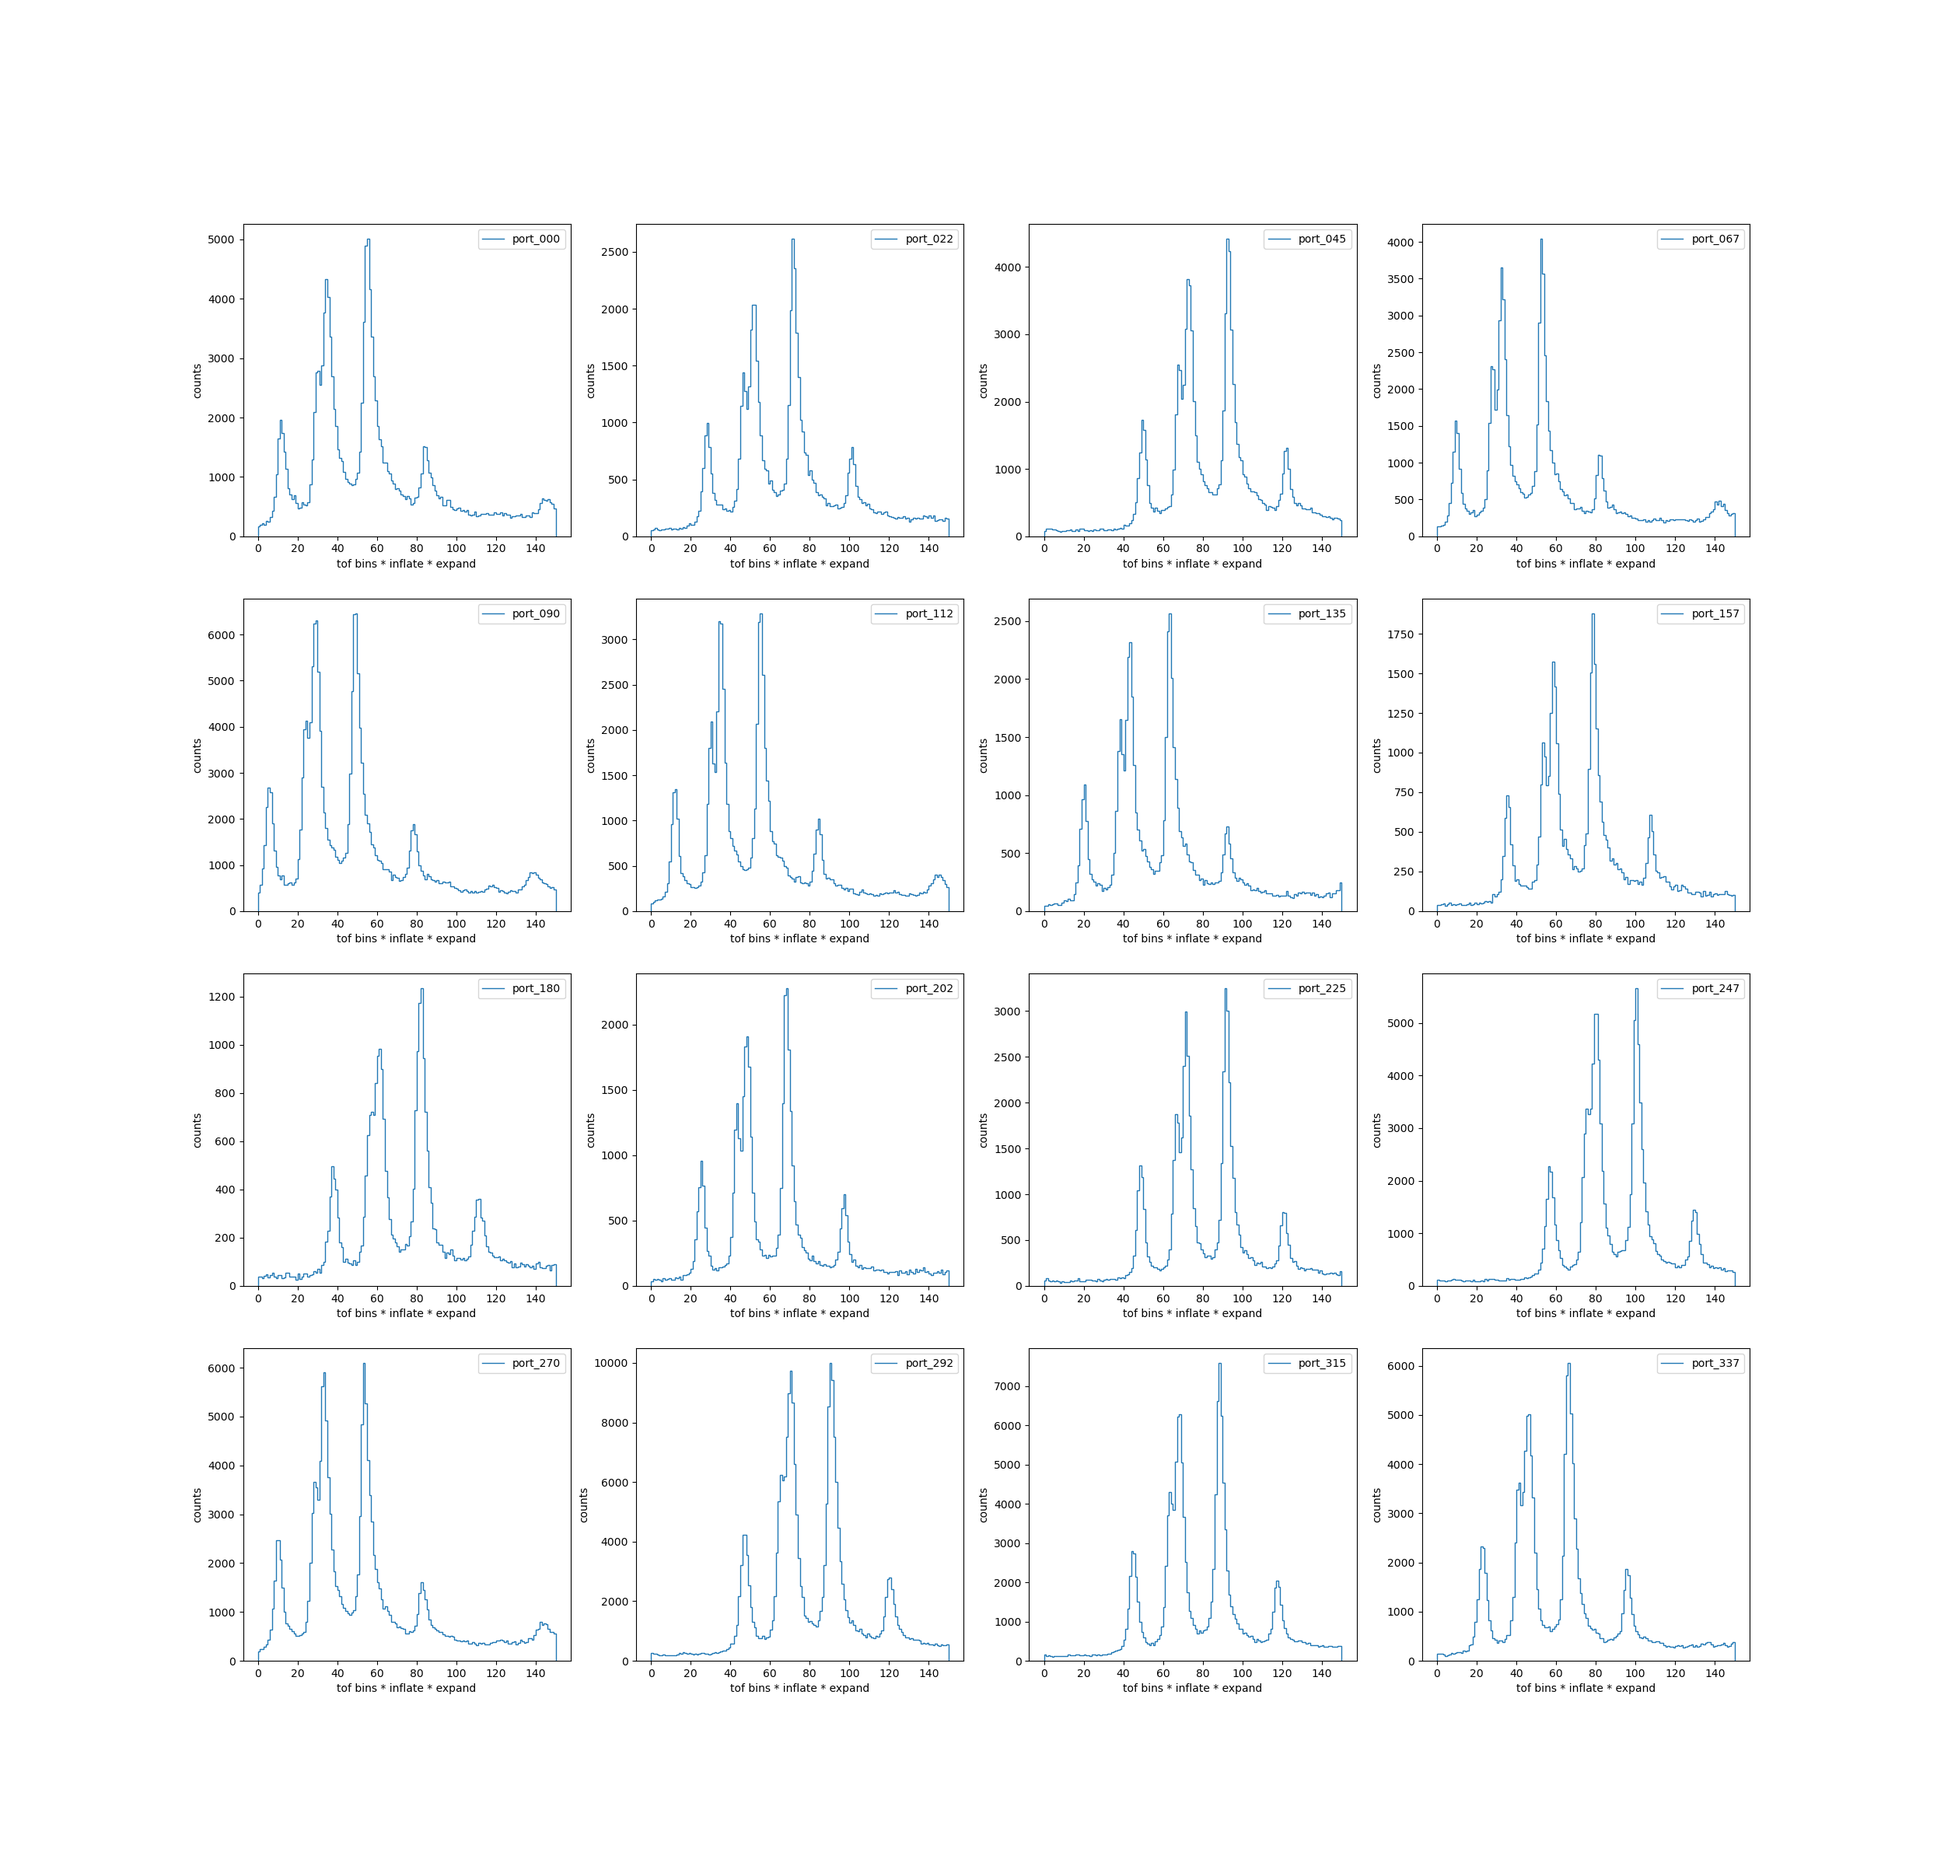
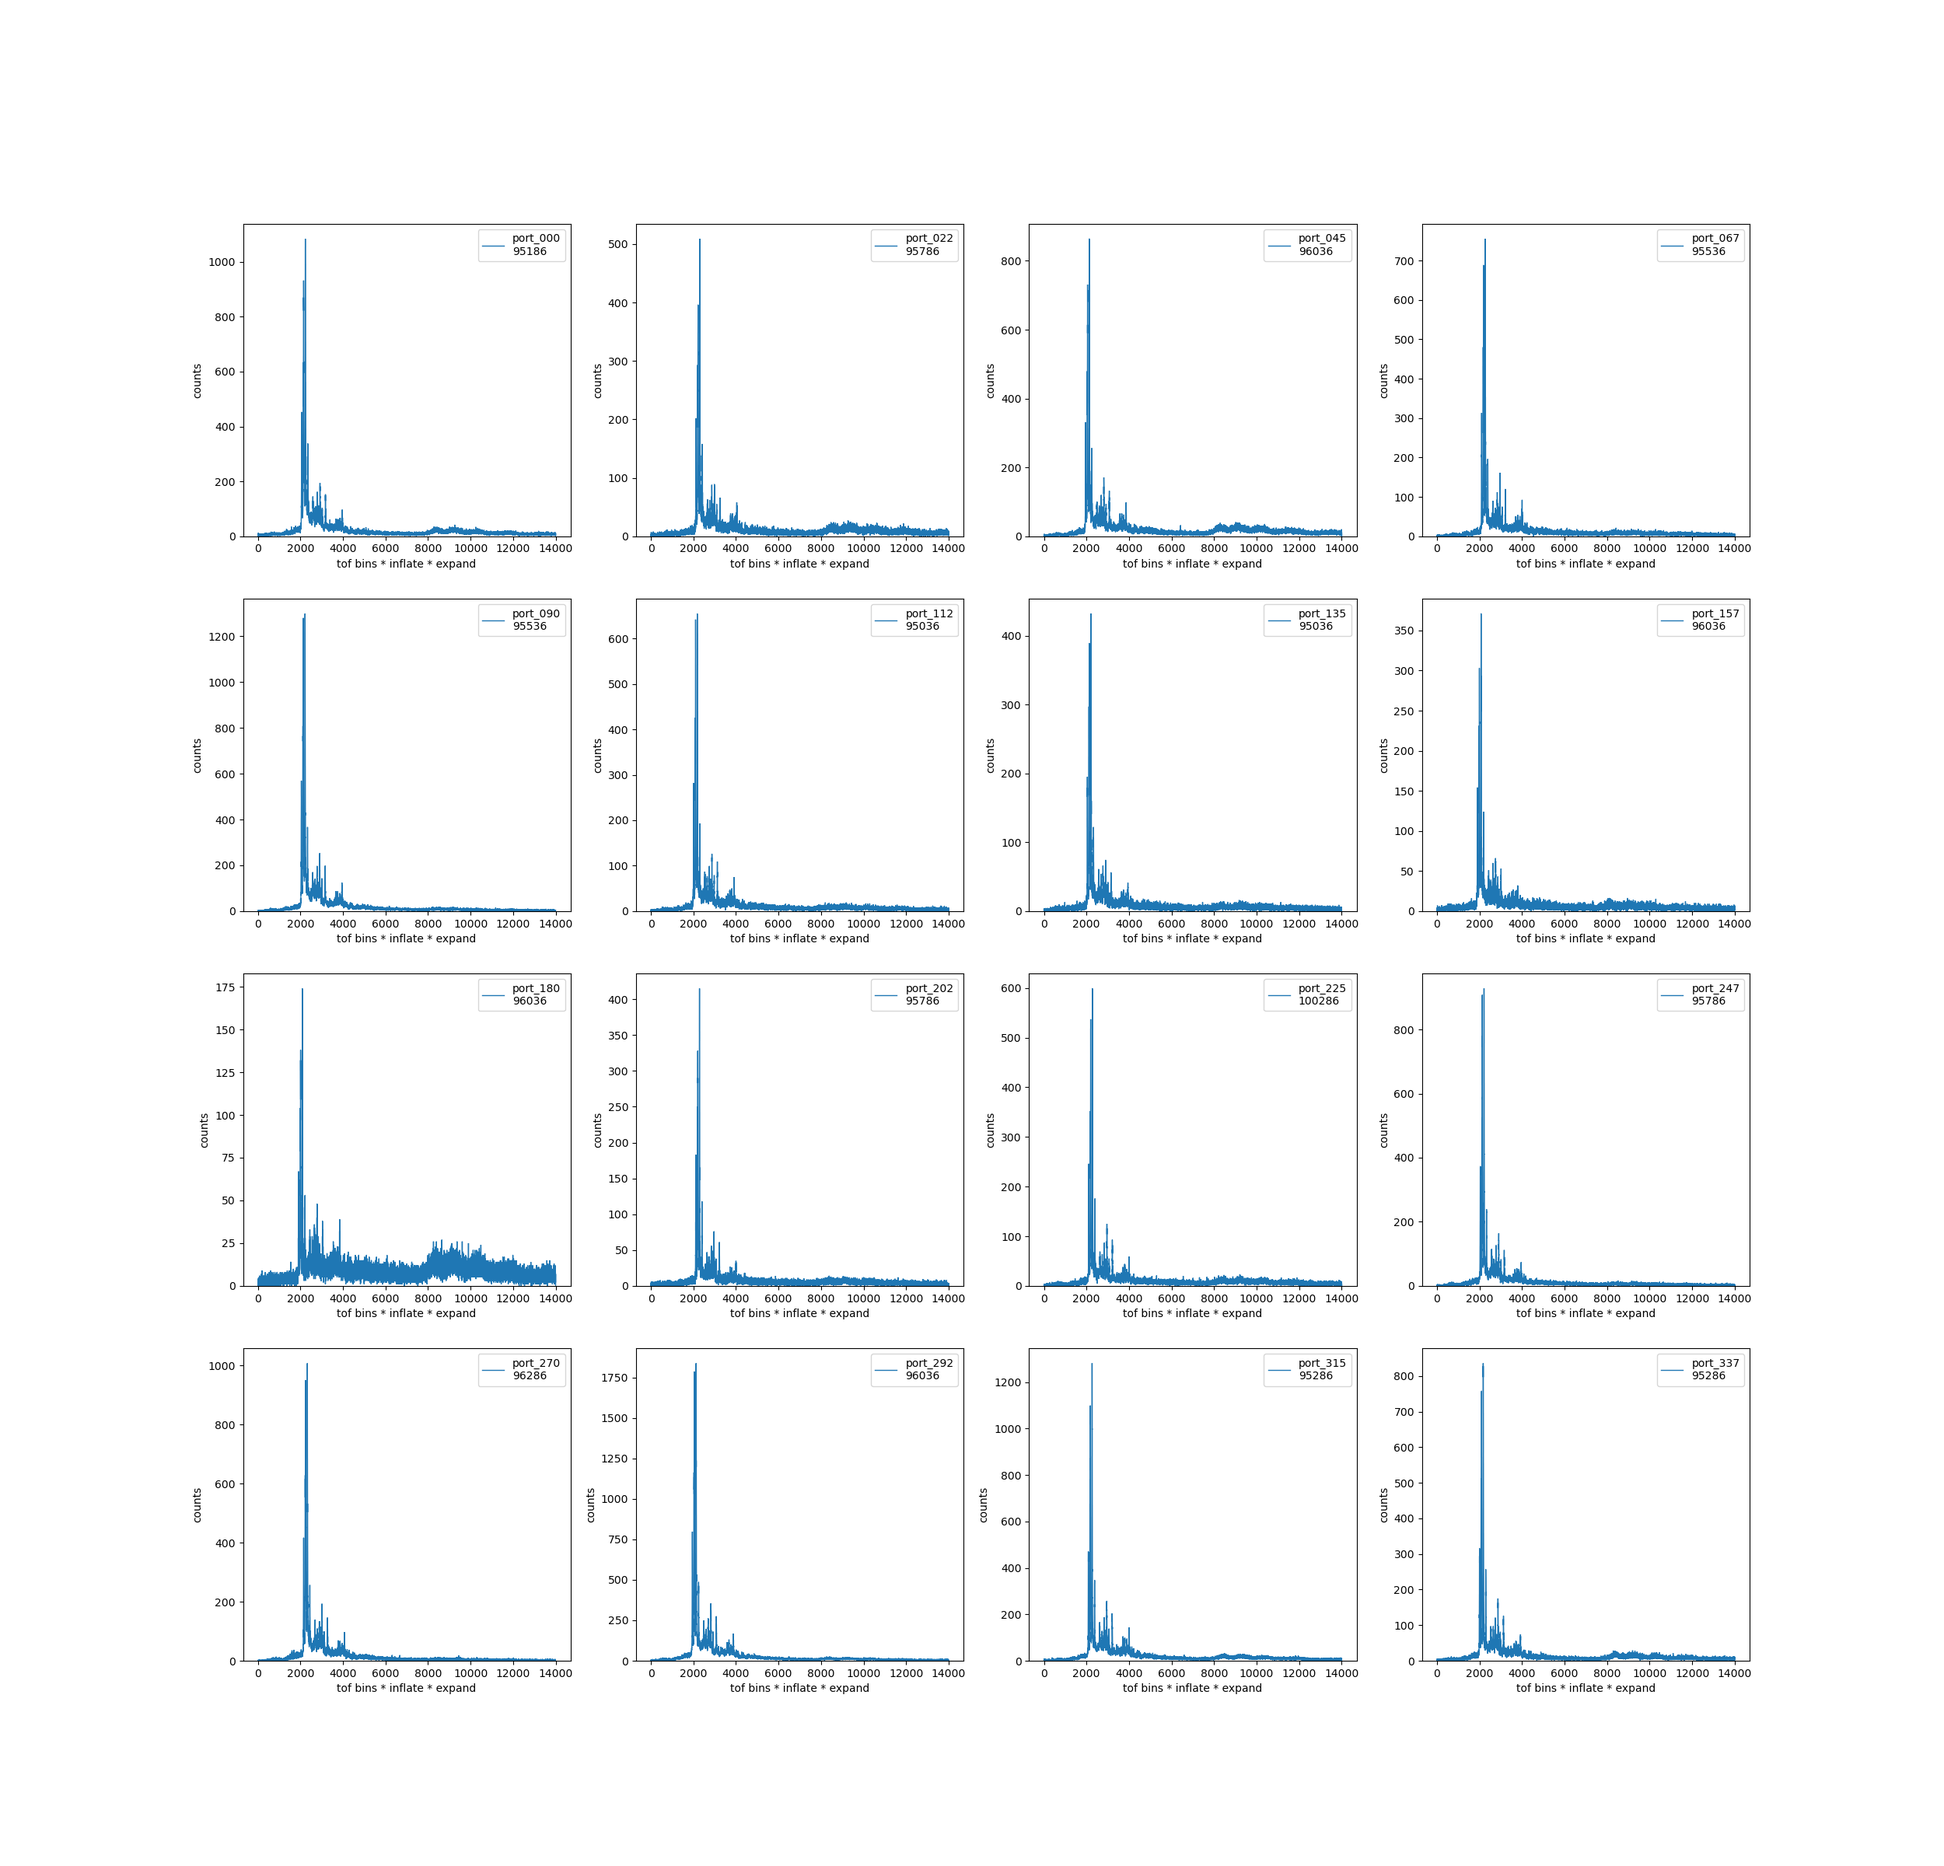
Mucking with Argon Augers

diff --git a/utils/full_spect.py b/utils/full_spect.py
@@ -41,15 +41,19 @@ def main():
 
     fig,axs = plt.subplots(nrows=4, ncols=4, figsize=(25, 24))
     #startinds = [(v<<1)-(1<<10) for v in [24000, 24150, 24150, 24100, 24090, 23950, 23950, 24150, 24150, 24150, 25250, 24100, 24300, 24150, 24000, 24000 ]]
-    startinds = [3650, 4250, 4500, 4000, 4000, 3500, 3500, 4500, 4500, 4250, 8750, 4250, 4750, 4500, 3750, 3750]
+    #startinds = [3650, 4250, 4500, 4000, 4000, 3500, 3500, 4500, 4500, 4250, 8750, 4250, 4750, 4500, 3750, 3750]
+    #startinds = [1650, 2250, 2500, 2000, 2000, 1500, 1500, 2500, 2500, 2250, 6750, 2250, 2750, 2500, 1750, 1750]
+    #
+    # removing another 2000 for sake of _longAugers_new.h5
+    startinds = [-350, 250, 500, 000, 000, -500, -500, 500, 500, 250, 4750, 250, 750, 500, -250, -250]
     for i in range(len(startinds)):
         startinds[i] += (1<<16)+30000
         
-    window = [1500]*len(startinds)
+    window = [14000]*len(startinds)
     for i,p in enumerate(hist.keys()):
         col = i%4
         row = i>>2
-        axs[row,col].stairs(hist[p][startinds[i]:startinds[i]+window[i]],label=p)
+        axs[row,col].stairs(hist[p][startinds[i]:startinds[i]+window[i]],label='%s\n%i'%(p,startinds[i]))
         axs[row,col].legend()
         axs[row,col].set_xlabel('tof bins * inflate * expand')
         axs[row,col].set_ylabel('counts')
